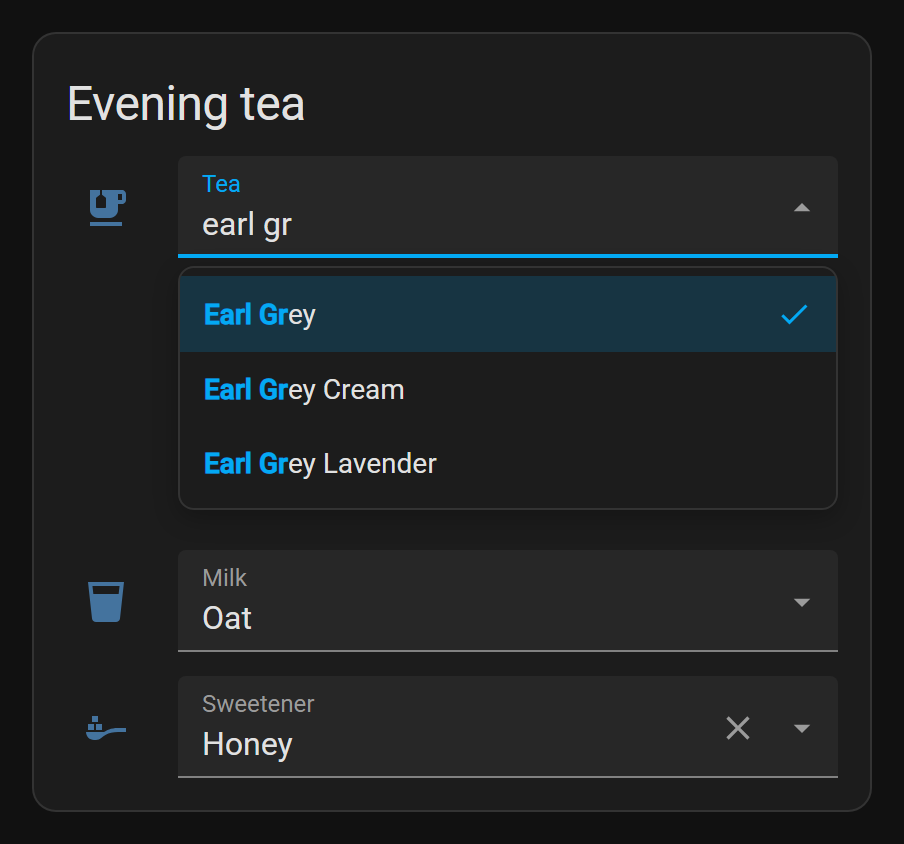
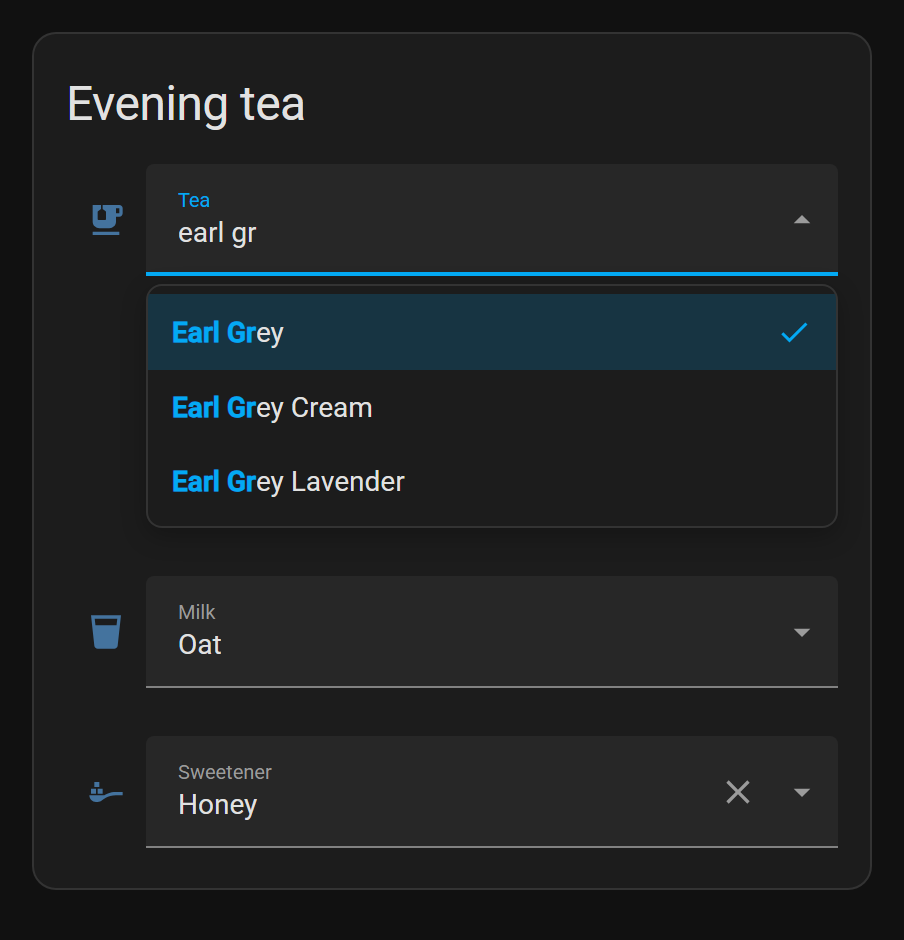
Match Home Assistant 2026 text input styling
The field now uses the same height, inset, label size and theme
colours as ha-input, and sits flush against the icon column like
the native rows around it.

diff --git a/searchable-select-row.js b/searchable-select-row.js
@@ -10,7 +10,7 @@
 //
 // https://github.com/Otixa/searchable-select-row
 
-export const VERSION = "1.0.1";
+export const VERSION = "1.0.2";
 
 // Lower-cased with diacritics removed, so "creme" finds "Crème".
 export const normalise = (s) =>
@@ -79,24 +79,33 @@ export function highlightParts(option, ranges) {
 }
 
 const STYLE = `
-  :host { display: block; }
-  .row { display: flex; align-items: flex-start; gap: 16px; }
+  :host { display: block; padding: 4px 0 12px; }
+  .row { display: flex; align-items: flex-start; }
   .row > ha-icon { color: var(--state-icon-color, var(--paper-item-icon-color)); flex: none;
-                   width: 40px; display: flex; justify-content: center; padding-top: 14px; }
+                   width: 40px; height: 56px; display: flex; align-items: center;
+                   justify-content: center; --mdc-icon-size: 20px; }
   .field ha-icon { --mdc-icon-size: 20px; }
   .main { flex: 1; min-width: 0; }
-  .field { position: relative; display: flex; align-items: center;
-           background: var(--input-fill-color, var(--secondary-background-color));
-           border-radius: 4px 4px 0 0;
-           border-bottom: 1px solid var(--input-idle-line-color, var(--secondary-text-color));
-           padding: 6px 4px 4px 12px; cursor: text; }
-  .field.focused { border-bottom: 2px solid var(--primary-color); padding-bottom: 3px; }
+  .field { position: relative; display: flex; align-items: center; box-sizing: border-box;
+           height: 56px; padding: 0 4px 0 16px; border-radius: 4px 4px 0 0; cursor: text;
+           background: var(--ha-color-form-background, var(--mdc-text-field-fill-color,
+                       var(--input-fill-color, var(--secondary-background-color)))); }
+  .field:hover { background: var(--ha-color-form-background-hover, var(--ha-color-form-background,
+                             var(--mdc-text-field-fill-color, var(--input-fill-color,
+                             var(--secondary-background-color))))); }
+  .field::after { content: ""; position: absolute; left: 0; right: 0; bottom: 0; height: 1px;
+                  pointer-events: none;
+                  background: var(--ha-color-border-neutral-loud, var(--input-idle-line-color,
+                              var(--secondary-text-color))); }
+  .field.focused::after { height: 2px; background: var(--primary-color); }
   .field.disabled { opacity: 0.5; cursor: default; }
   .text { flex: 1; min-width: 0; }
-  label { display: block; font-size: 12px; line-height: 16px; color: var(--secondary-text-color); }
+  label { display: block; font-size: var(--ha-font-size-xs, 10px); line-height: 12px;
+          color: var(--secondary-text-color); }
   .field.focused label { color: var(--primary-color); }
-  input { all: unset; display: block; width: 100%; font: inherit; font-size: 16px;
-          line-height: 24px; color: var(--primary-text-color); }
+  input { all: unset; display: block; width: 100%; font: inherit;
+          font-size: var(--ha-font-size-m, 14px); line-height: 20px;
+          color: var(--primary-text-color); }
   input::placeholder { color: var(--secondary-text-color); opacity: 0.7; }
   button { all: unset; cursor: pointer; display: flex; padding: 8px; border-radius: 50%;
            color: var(--secondary-text-color); }
@@ -104,7 +113,7 @@ const STYLE = `
   button[hidden] { display: none; }
   .chevron { color: var(--secondary-text-color); display: flex; padding: 8px 4px; transition: transform .15s; }
   .field.focused .chevron { transform: rotate(180deg); }
-  ul { list-style: none; margin: 4px 0 8px; padding: 4px 0; max-height: 240px; overflow-y: auto;
+  ul { list-style: none; margin: 4px 0 0; padding: 4px 0; max-height: 240px; overflow-y: auto;
        background: var(--card-background-color, var(--ha-card-background));
        border: 1px solid var(--divider-color); border-radius: 8px;
        box-shadow: 0 4px 12px rgba(0,0,0,.25); }

diff --git a/demo/index.html b/demo/index.html
@@ -23,7 +23,7 @@
   ha-card { display: block; background: var(--card-background-color); border-radius: 12px;
             border: 1px solid var(--divider-color); color: var(--primary-text-color); }
   .header { font-size: 24px; padding: 20px 16px 12px; letter-spacing: -0.012em; }
-  .content { padding: 0 16px 16px; display: flex; flex-direction: column; gap: 12px; }
+  .content { padding: 0 16px 8px; display: flex; flex-direction: column; gap: 8px; }
 </style>
 <script type="module">
   import * as mdi from "https://cdn.jsdelivr.net/npm/@mdi/js@7/mdi.js";

diff --git a/README.md b/README.md
@@ -58,7 +58,7 @@ HACS registers the dashboard resource automatically.
 
 ```yaml
 resources:
-  - url: /local/searchable-select-row.js?v=1.0.1
+  - url: /local/searchable-select-row.js?v=1.0.2
     type: module
 ```
 
@@ -137,9 +137,12 @@ The row reads these standard theme variables:
 | `--primary-color`               | Focus underline, label, highlights, tick  |
 | `--primary-text-color`          | Field and option text                     |
 | `--secondary-text-color`        | Label, placeholder, buttons               |
-| `--secondary-background-color`  | Field background fallback, button hover   |
-| `--input-fill-color`            | Field background                          |
-| `--input-idle-line-color`       | Field underline                           |
+| `--ha-color-form-background`    | Field background                          |
+| `--ha-color-form-background-hover` | Field background on hover              |
+| `--ha-color-border-neutral-loud` | Field underline                          |
+| `--input-fill-color`            | Field background on older frontends       |
+| `--input-idle-line-color`       | Field underline on older frontends        |
+| `--secondary-background-color`  | Last-resort field background, button hover |
 | `--card-background-color`       | List background                           |
 | `--divider-color`               | List border                               |
 | `--state-icon-color`            | Row icon                                  |

diff --git a/CHANGELOG.md b/CHANGELOG.md
@@ -2,6 +2,12 @@
 
 All notable changes to this project are documented in this file. The format is based on [Keep a Changelog](https://keepachangelog.com/en/1.1.0/), and the project follows [Semantic Versioning](https://semver.org/).
 
+## [1.0.2](https://github.com/Otixa/searchable-select-row/compare/v1.0.1...v1.0.2) (2026-09-24)
+
+### Fixed
+
+- The field now matches Home Assistant's own text inputs (2026.x): 56px tall, flush against the icon column, 16px inset, smaller label, and the form background, hover and underline colours from the theme (`--ha-color-form-background`, `--ha-color-form-background-hover`, `--ha-color-border-neutral-loud`). Older frontends fall back to the previous variables. Before, the row sat about 10px to the right of neighbouring rows and could show a different background.
+
 ## [1.0.1](https://github.com/Otixa/searchable-select-row/compare/v1.0.0...v1.0.1) (2026-09-24)
 
 No functional changes.
